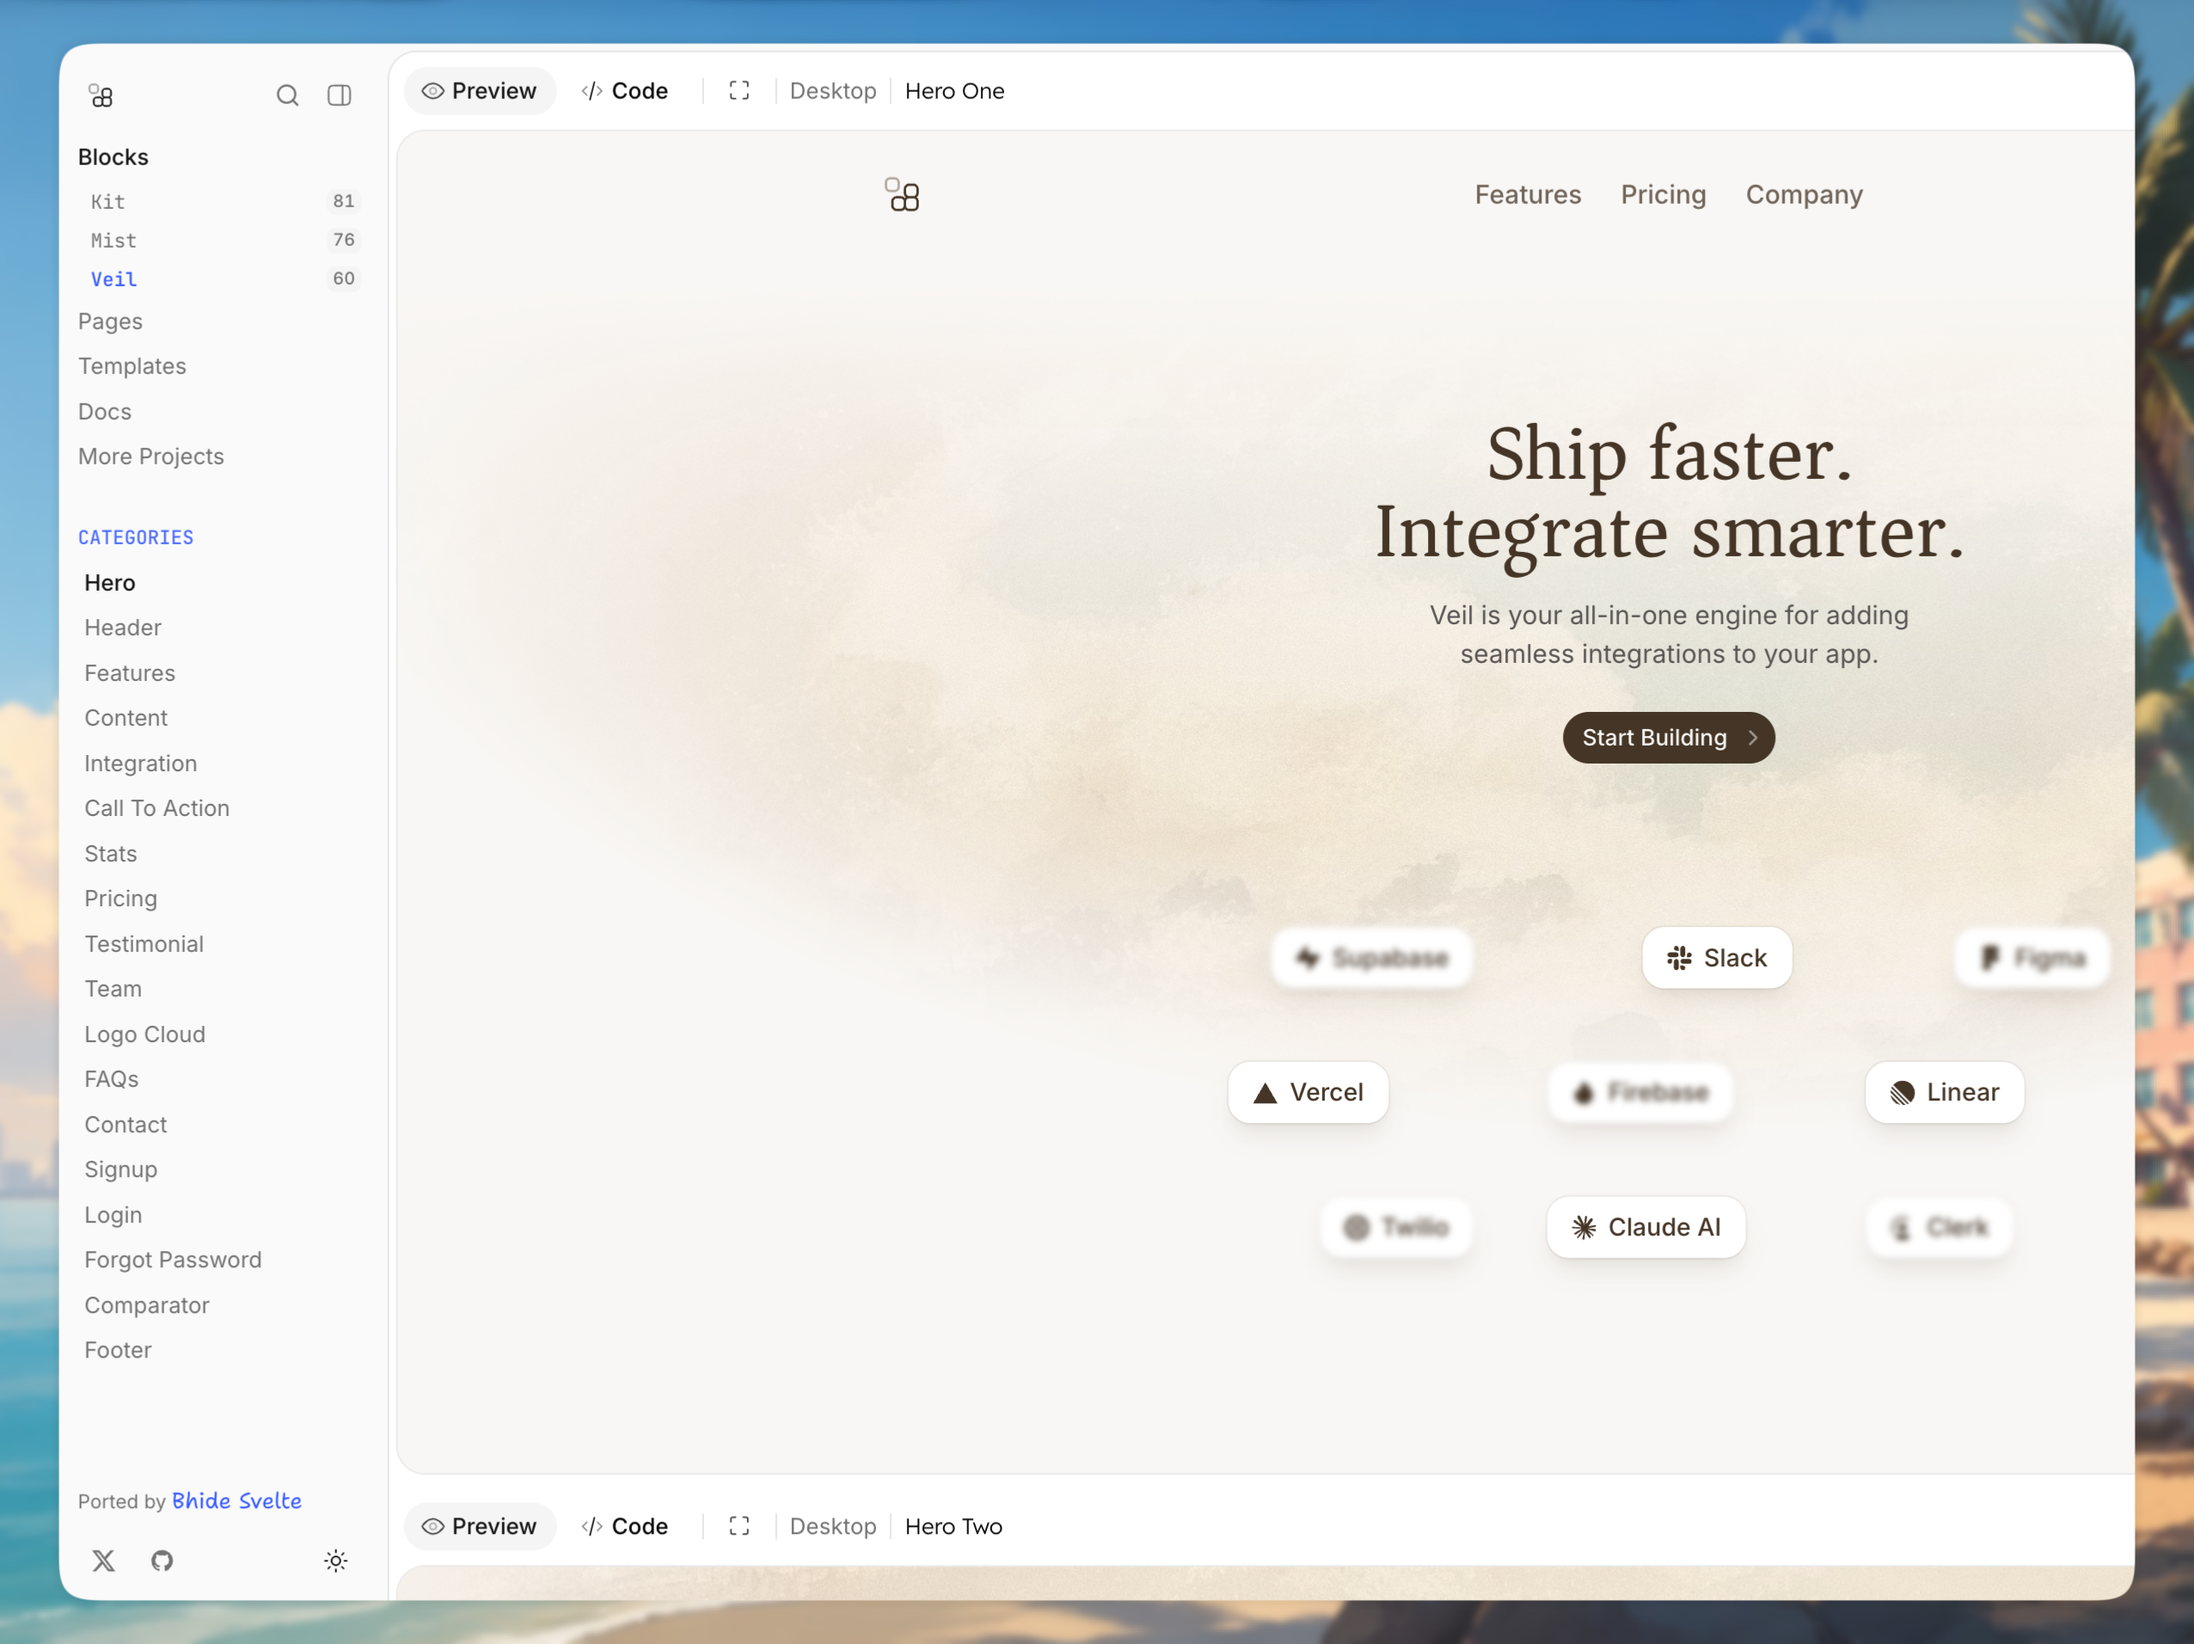
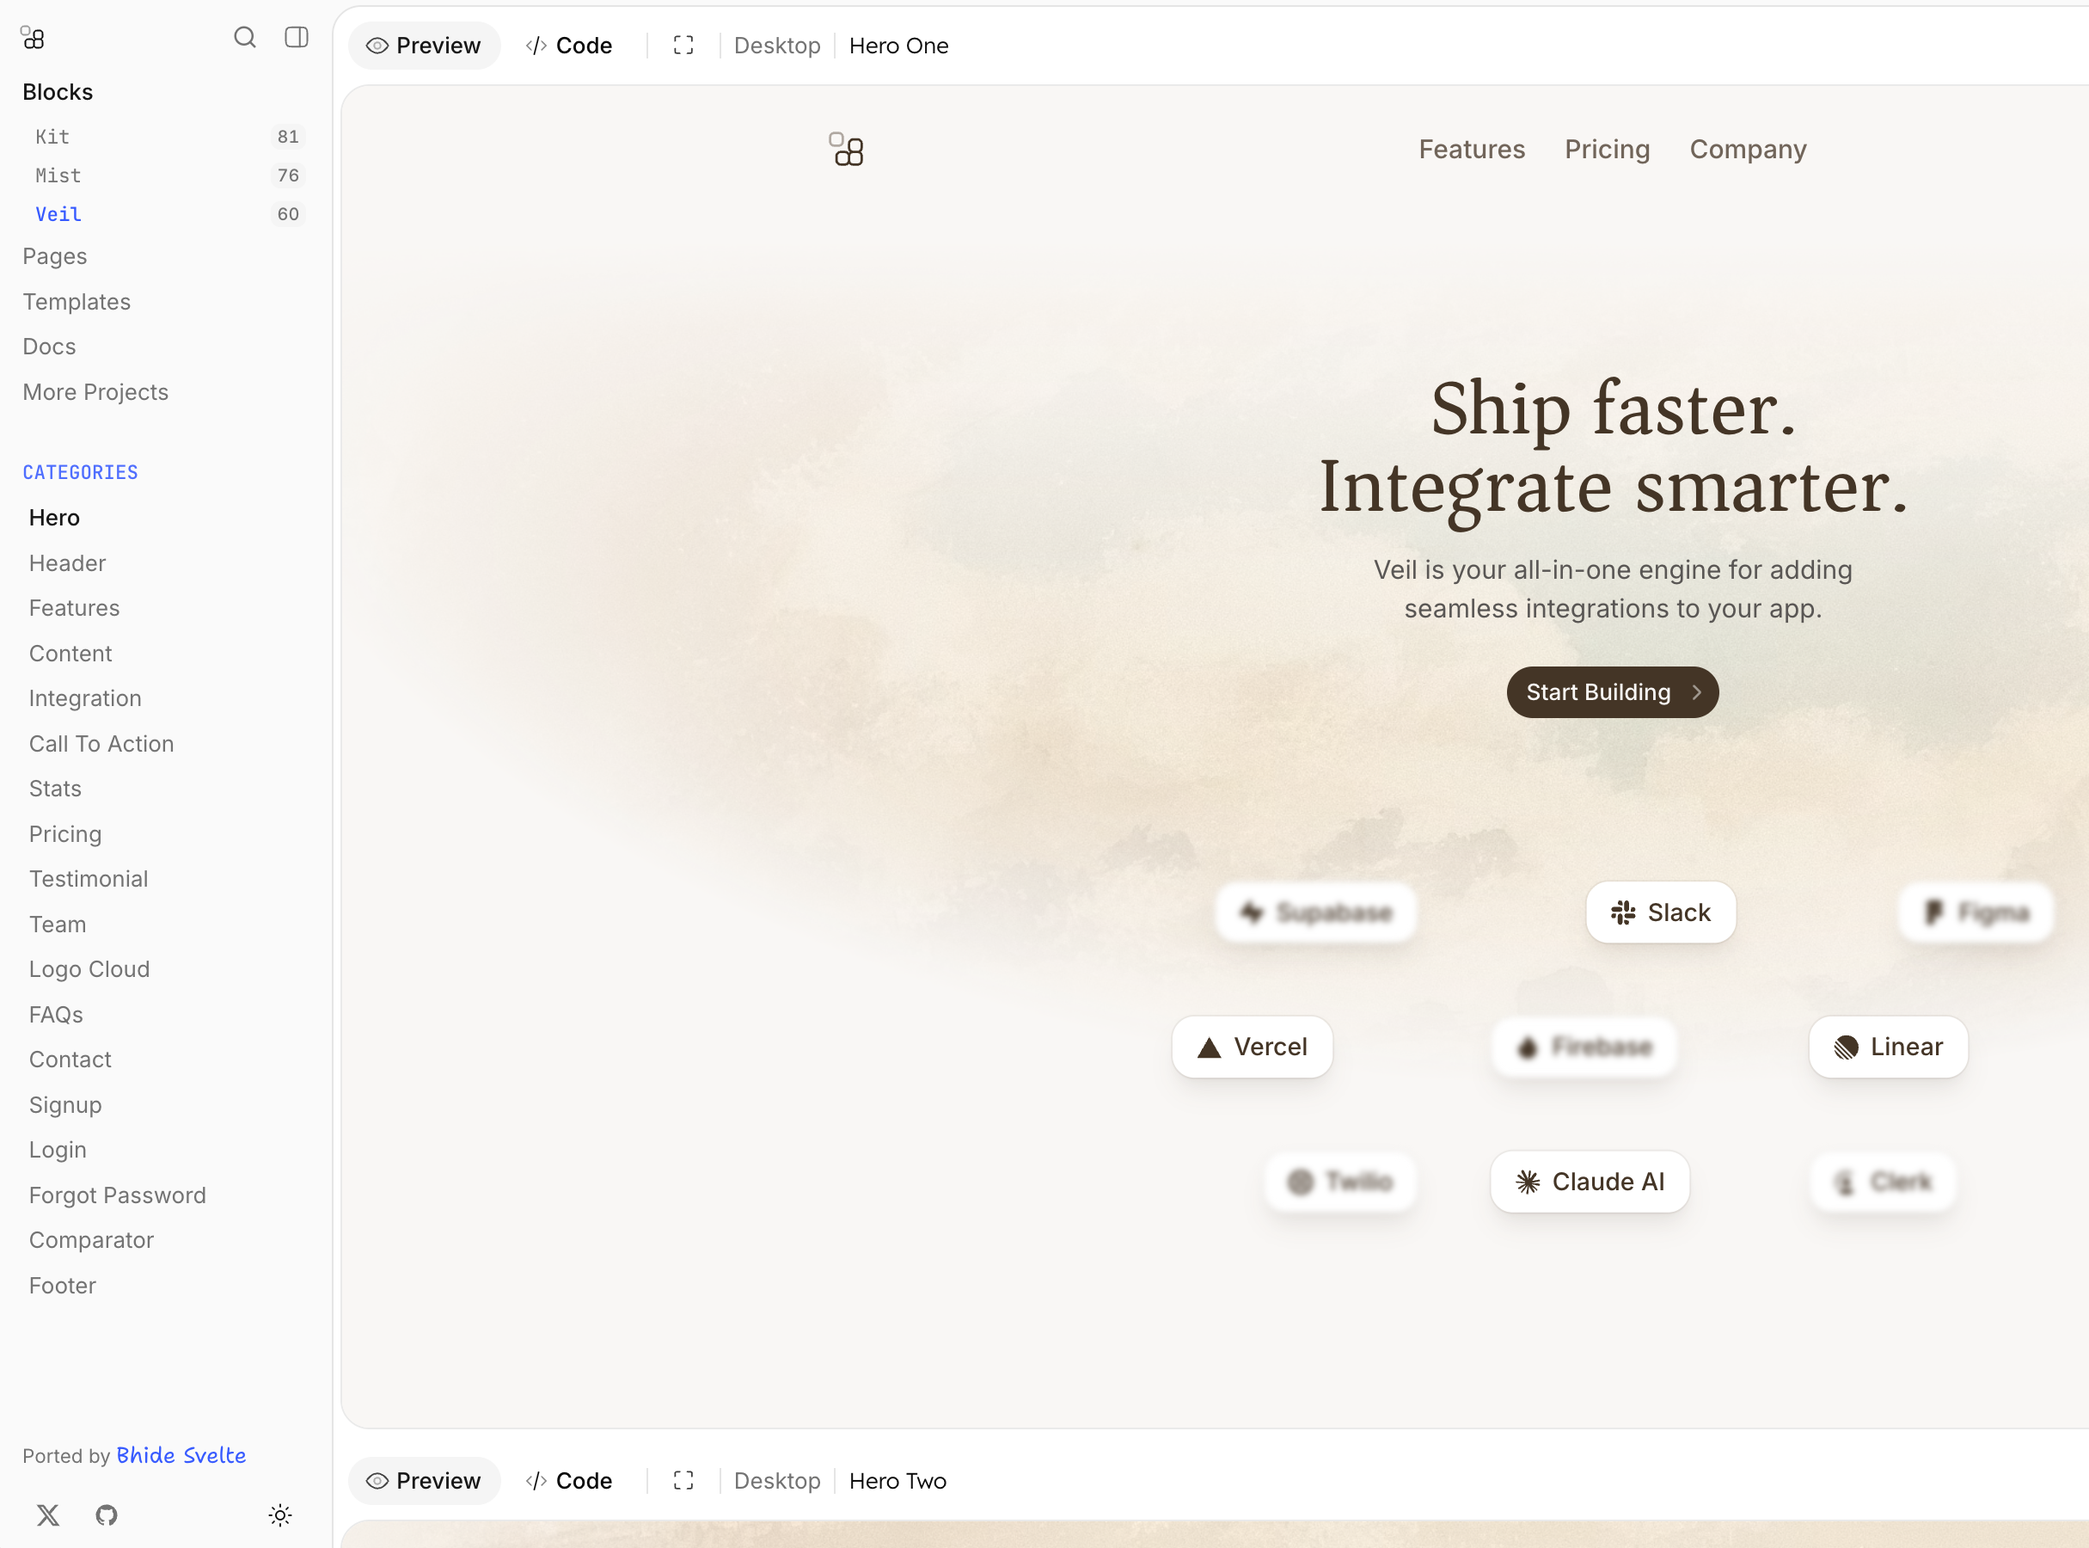
feat: add feature showcase component with responsive design and images

diff --git a/src/lib/components/base/landing/feature-showcase.svelte b/src/lib/components/base/landing/feature-showcase.svelte
@@ -1,0 +1,44 @@
+<section class="border-t px-6 py-16 font-docs md:px-10">
+	<div class="mx-auto max-w-5xl">
+		<div class="mx-auto max-w-2xl text-center">
+			<h2 class="text-3xl font-semibold tracking-tight text-balance sm:text-4xl">
+				See every block before you ship
+			</h2>
+			<p class="mt-3 text-lg text-muted-foreground">
+				Browse complete previews, inspect the source, and choose the right block for your
+				project.
+			</p>
+		</div>
+
+		<img
+			src="/images/feature.png"
+			alt="Svelte Shadcn Blocks gallery showing a full block preview"
+			width="2552"
+			height="1912"
+			loading="lazy"
+			decoding="async"
+			class="mx-auto mt-8 w-full max-w-4xl rounded-xl border object-cover"
+		/>
+
+		<div class="mx-auto mt-8 grid max-w-4xl gap-6 text-left sm:grid-cols-2 lg:grid-cols-3">
+			<div>
+				<h3 class="text-lg font-medium">Free and open source</h3>
+				<p class="mt-2 text-base leading-6 text-muted-foreground">
+					Use and customize every block under the MIT license.
+				</p>
+			</div>
+			<div>
+				<h3 class="text-lg font-medium">Responsive and accessible</h3>
+				<p class="mt-2 text-base leading-6 text-muted-foreground">
+					Built for different screen sizes and accessible interactions.
+				</p>
+			</div>
+			<div>
+				<h3 class="text-lg font-medium">Light and dark mode</h3>
+				<p class="mt-2 text-base leading-6 text-muted-foreground">
+					Theme-aware styles that work across both color modes.
+				</p>
+			</div>
+		</div>
+	</div>
+</section>

diff --git a/src/routes/(app)/+page.svelte b/src/routes/(app)/+page.svelte
@@ -1,4 +1,5 @@
 <script>
+	import FeatureShowcase from "#lib/components/base/landing/feature-showcase.svelte";
 	import LandingHero from "#lib/components/base/landing/hero.svelte";
 	import FeatureSection from "#lib/web/layouts/FeatureSection.svelte";
 	import FeatureSectionTwo from "#lib/web/layouts/FeatureSectionTwo.svelte";
@@ -66,3 +67,4 @@
 <!-- <FeatureSection /> -->
 <!-- <FeatureSectionTwo /> -->
 <LandingHero />
+<FeatureShowcase />
